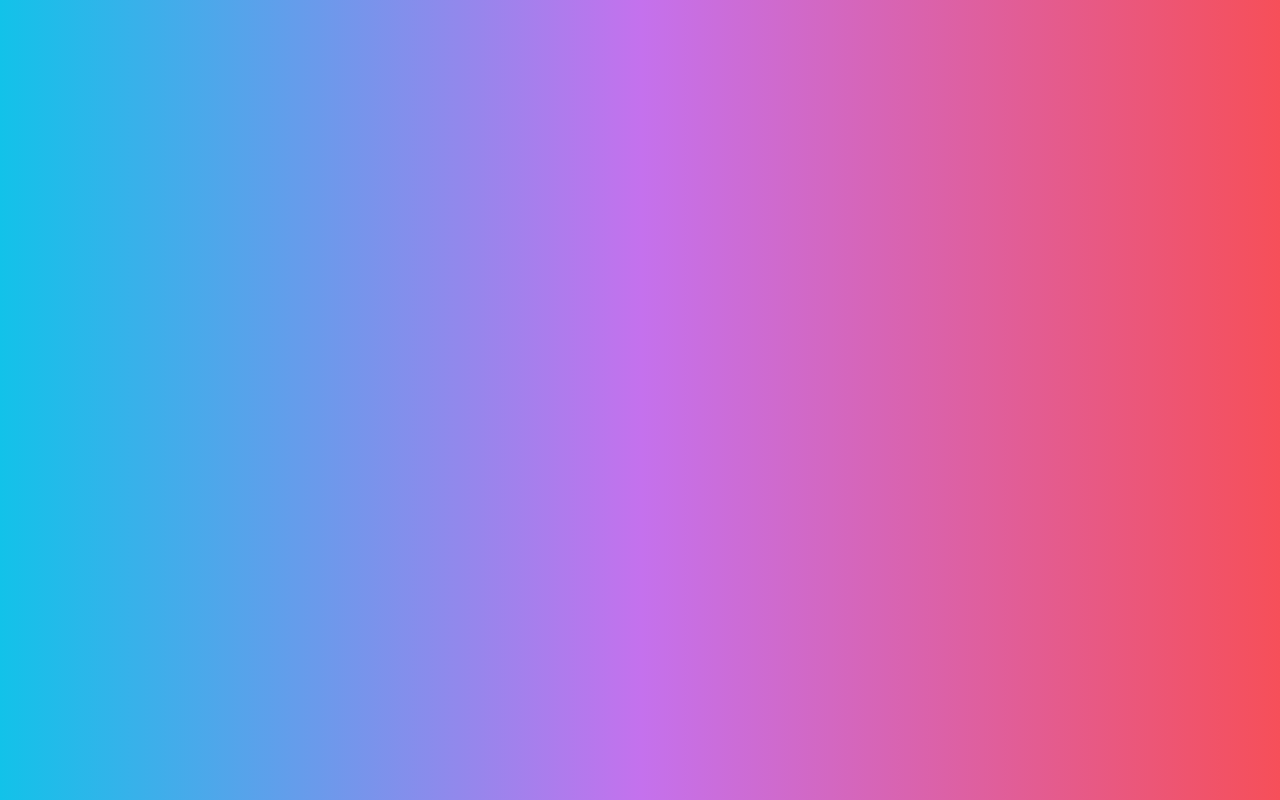
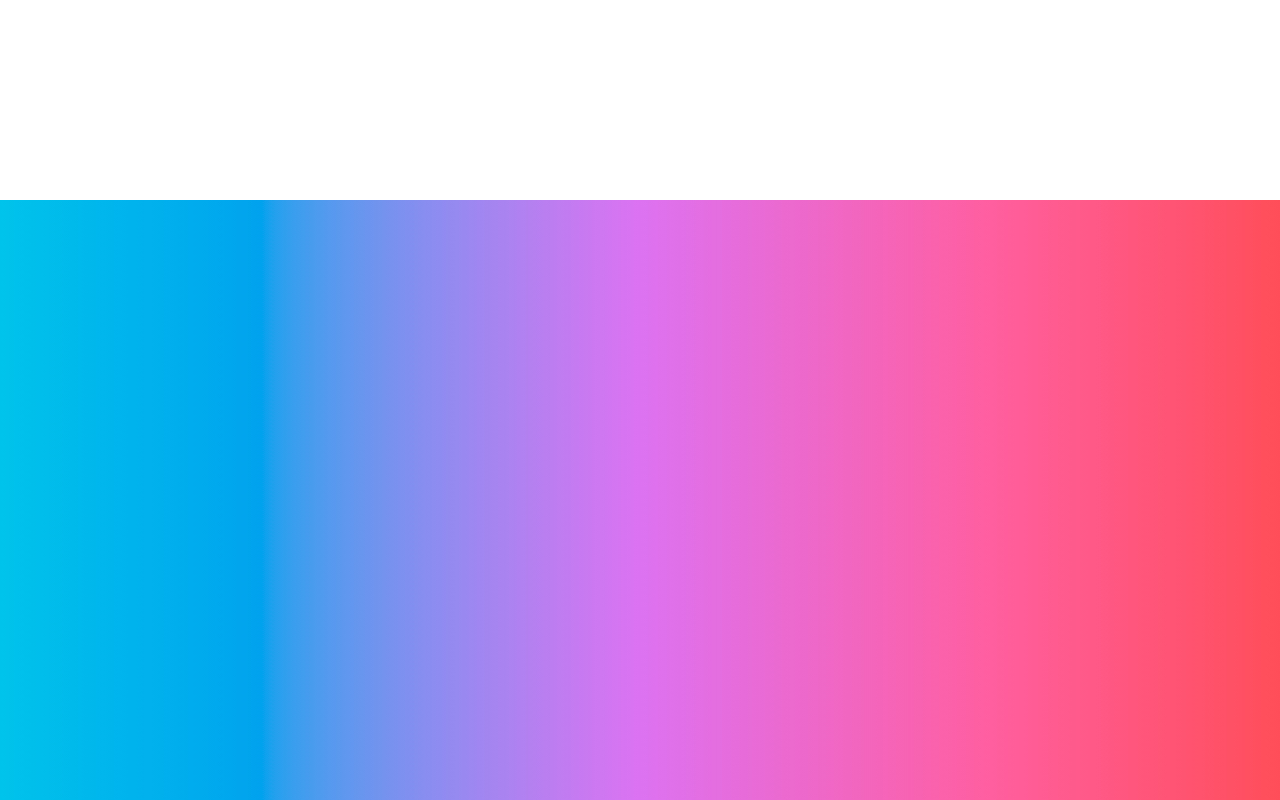
agregando los textos

diff --git a/index.html b/index.html
@@ -7,13 +7,12 @@
   <meta http-equiv="X-UA-Compatible" content="ie=edge">
   <link rel="stylesheet" href="styles.css">
   <link rel="preconnect" href="https://fonts.gstatic.com">
-  <link href="https://fonts.googleapis.com/css2?family=Nunito:ital@1&display=swap" rel="stylesheet">
+  <link href="https://fonts.googleapis.com/css2?family=Nunito:wght@300&display=swap" rel="stylesheet">
   <title>Presentacion</title>
 </head>
 <body>
   <main>
   <div class="bg-box">
-    <img src="resources/JShine.jpg" alt="">
     <section class="container-card">
       <div class="card-first">
         <img src="resources/me.jpeg" alt="">
@@ -21,9 +20,20 @@
       <div class="card-second">
         <div class="card-second-text">
           <h1>Lucas Curto</h1>
-          <h3></h3>
-          <p></p>
+          <h3>Estudiante de 5to TIC</h3>
+          <p>Me apasiona la programacion, quiero <br>convertirme en full stack developer,<br> tambien me apasiona la fotografia.</p>
+          <p>Conozco varias tecnologias, estudiando <br>algunas de ellas por mi cuenta:</p>
+          <ul>
+            <li>Java,&nbsp;</li>
+            <li>Ruby,&nbsp;</li>
+            <li>Html,&nbsp;</li>
+            <li>Css,&nbsp;</li>
+            <li>JavaScript,&nbsp;</li>
+            <li>y&nbsp;Git</li>
+          </ul>
+          p
         </div>
+
       </div>
     </section>
   </div>

diff --git a/styles.css b/styles.css
@@ -1,7 +1,6 @@
 *{
-  font-family: 'Nunito', sans-serif;
+  font-family: 'Nunito';
   margin: 0;
-
 }
 main{
   width: 100%;
@@ -11,29 +10,28 @@ main{
 /* Fondo */
 .bg-box{
   width: 100%;
-  height: 70%;
-  padding-top: 30vh;
-
-
-}
-.bg-box > img{
-  width: 100%;
   height: 100%;
-  display: block;
+  background-image:url(resources/JShine.jpg);
+  overflow: hidden;
+
+
 }
+
 /* tarjetas */
 .container-card{
   width: 90vw;
   height: 90vh;
   display: flex;
   flex-direction: row;
-  z-index: 100;
   background-color: #fff;
   border-radius: 5%;
   box-shadow:0px 0px 10px #888888;
+  margin-left: 8vw;
+  margin-top: 3vh;
+
 
 }
-.card-first{ 
+.card-first{
   width: 40%;
   height: 100%;
   background-color: blue;
@@ -49,9 +47,33 @@ main{
 .card-second{
   width: 60%;
   height: 100%;
-  background-color: red;
-  /* position: absolute; */
-  /* left:0vw; */
-  /* bottom: 0vh;  */
+  border-radius: 0 5% 5% 0;
+}
+.card-second-text{
+  width: 100%;
+  height: 100%;
+  padding: 0;
+}
+.card-second-text h1{
+  
+  font-size: 64px;
+  font-weight: lighter;
+}
+.card-second-text h3{
+  
+  font-size: 36px;
+  font-weight: lighter;
+}
+.card-second-text p:first-of-type{
+  
+}
+.card-second-text p{
 
+  
+}
+.card-second-text ul{
+  display: flex;
+  flex-wrap: row;
+  list-style: none;
+  padding: 0;
 }
